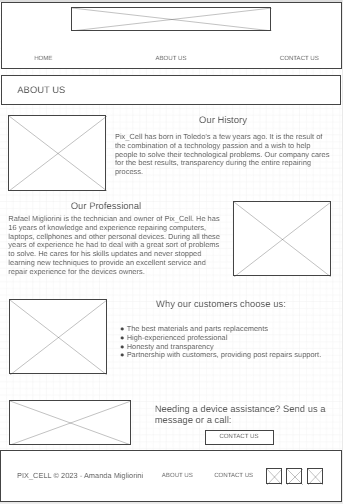
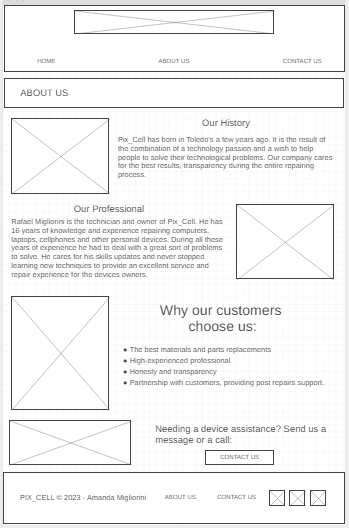
aboutus css added

diff --git a/Pix_Cell/styles/styles.css b/Pix_Cell/styles/styles.css
@@ -54,6 +54,21 @@ main h2 {
 main section img {
     box-sizing: border-box;
 }
+about-main p {
+    color:#0E1F39;
+    text-align: center;
+    font-family: Poppins, Helvetica, sans-serif;
+}
+about-main h2 {
+    color:#0E1F39;
+    text-align: left;
+    font-family: Poppins, Helvetica, sans-serif;
+}
+
+about-main section img {
+    box-sizing: border-box;
+}
+
 
 footer {
     background-color: #25569F;
@@ -217,9 +232,13 @@ footer .social img {
     grid-template-columns: 80px auto;
     margin: 30px 0; 
 }
+.about-cards{
+    display: grid;
+    grid-template-columns: 80px auto;
+    margin: 30px 0; 
+}
 
-
-.setting-card {
+.setting-card{
     margin: 30px;
     grid-column: 1/11;
     grid-row: 6/13;
@@ -269,7 +288,6 @@ footer .social img {
     grid-column: 2/4;
     grid-row: 1/4;
     border-radius: 20px;
-    
     background-color: #FEFEFE;
 }
 .card h2{
@@ -286,28 +304,79 @@ footer .social img {
     grid-column: 1/13;
     grid-row: 4/8;
     color: #FEFEFE;
+
+}.history-card, .professional-card, .customer-card{
+    display: grid;
+    grid-template-columns: repeat(12, 1fr);
+}
+.history-card, .professional-card, .customer-card {
+    margin: 30px;
+    grid-column: 1/11;
+    grid-row: 6/13;
+    border: 5px solid  #25569F;
+    padding: 15px;
+    border-radius: 50px;
+    background-color: #0E1F39;
+}
+.history-card{
+    grid-row: 1/6;
+}
+.customer-card{
+    grid-row: 13/19;
 }
 
-.security-card:hover{
+.history-card h2, .professional-card h2, .customer-card h2{
+    padding: 10px;
+    grid-column: 5/13;
+    grid-row: 1/2;
+    font-family: 'Space Age', sans-serif;
+    text-align: center;
+    font-size: 1.8em;
+    color: #FEFEFE;
+}
+.customer-card h2{
+    padding-left: 50px;
+}
+.history-card p, .professional-card p, .customer-card ul{
+    padding: 10px;
+    padding-top: 0px;
+    grid-column: 5/13;
+    grid-row: 3/6;
+    color: #FEFEFE;    
+}
+.about-img{
+    padding: 10px;
+    grid-column: 1/3;
+    grid-row: 1/8;
+    width: 200%;
+    height: 350px;
+    border-radius: 50px;
+}
+.professional-card img{
+    grid-column: 9/13;
+    width: 100%;
+    height: 350px;
+}
+.professional-card p, .professional-card h2{
+    grid-column: 1/9;
+}
+.customer-card img{
+    height: 550px;
+}
+.customer-card li{
+    margin: 20px 150px;
+    font-size: 1.35em;
+    
+}
+
+.security-card:hover, .cell-card:hover, .history-card:hover, .setting-card:hover, 
+.collect-card:hover, .professional-card:hover, .customer-card:hover{
     transition: transform .5s;
     box-shadow: 5px 5px 10px #6f7364;
     
 }
-.cell-card:hover{
-    transition: transform .5s;
-    box-shadow: 5px 5px 10px #6f7364;
-    
-}
-.setting-card:hover{
-    transition: transform .5s;
-    box-shadow: 5px 5px 10px #6f7364;
-    
-}
-.collect-card:hover{
-    transition: transform .5s;
-    box-shadow: 5px 5px 10px #6f7364;
-    
-}
+  
+
 * {box-sizing:border-box}
 
 /* Slideshow container */

diff --git a/Pix_Cell/aboutus.html b/Pix_Cell/aboutus.html
@@ -47,7 +47,6 @@
                     <img class="about-img" src="images/happy_customer.jpg" alt="happy customer">
                     <h2>Why Our Customers Choose Us</h2>
                    <ul>
-                    
                         <li>The best materials and parts replacements</li>
                         <li>High-experienced professional</li>
                         <li>Honesty and transparency</li>
